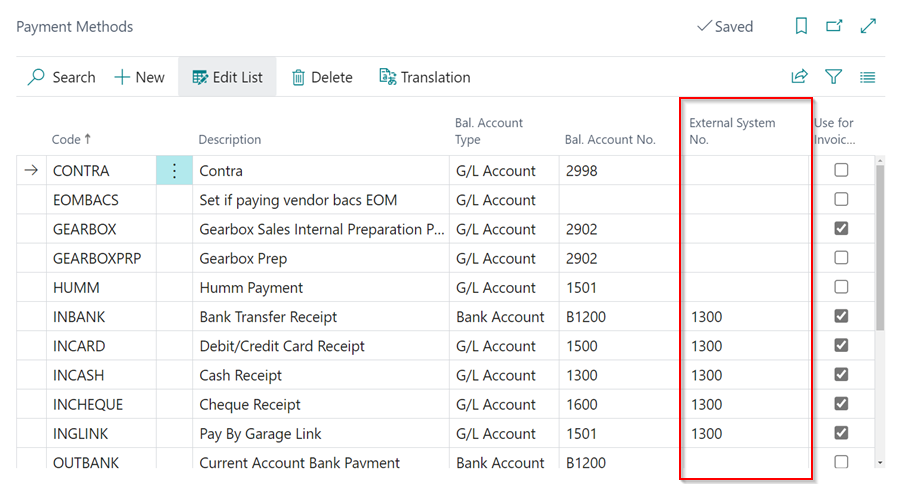
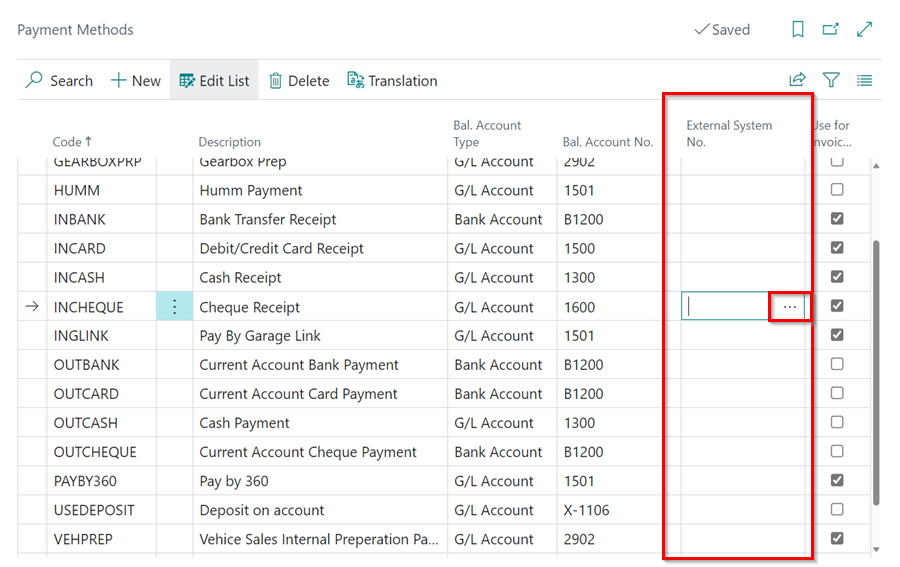
Add instructions for running the export

diff --git a/docs/garagehive-quickbooks-online-integration.md b/docs/garagehive-quickbooks-online-integration.md
@@ -12,6 +12,7 @@ Garage Hive has made it possible to integrate QuickBooks online accounting syste
 1. [Initial Setup](#initial-setup)
 2. [Integrate Chart of Accounts](#integrate-chart-of-accounts)
 3. [Integrate Payment Methods](#integrate-payment-methods)
+4. [How to run the export](#how-to-run-the-export)
 
 ### Initial Setup
 To integrate **QuickBooks Online** with Garage Hive, follow these steps.
@@ -59,6 +60,7 @@ To integrate the **Chart of Accounts** to **QuickBooks** accounting system:
 
    ![](media/garagehive-quickbooks-online-integration8.png)
 
+
 [Go back to top](#top)
 
 ### Integrate Payment Methods
@@ -67,18 +69,41 @@ To add the **External System No.** to the **Payments Methods**:
 
    ![](media/garagehive-quickbooks-online-integration9.png)
 
-2. In the **External System No.** column, enter the corresponding code for the **Payment Methods** that you use in your external system.
+2. In the **External System No.** column, click on the three dots to select the corresponding code for the **Payment Methods** that you use in your external system.
 
    ![](media/garagehive-quickbooks-online-integration10.png)
 
+
 [Go back to top](#top)
 
-<br>
+### How to run the export 
+1. In the top right corner, choose the ![](media/search_icon.png) icon, enter **Export to Accountancy System**, and select the related link.
+
+    ![](media/garagehive-sage-accounting-setup8.png)
+
+2. Select the following options:
+   * **Export Customer Invoices/Credit Memos** - This will export all Customer invoices/credit memos for the given date range. 
+   * **Export Customer Payments/Refunds** - This will export Invoice payments/refunds as well as payments to accounts within the specified date range.
+   * **Export Vendor Invoices/Credit Memos** - This will export all posted purchase orders/purchase invoices as well as posted purchase return orders/purchase credit memos within the given date range.
+   * **Export Type** - All or New. You may either export **All** of the documents within the date range or only the **New** documents. Selecting **New** will exclude any previously exported documents. This implies that it is **important** that you keep all prior exported files secure since they will never be reproduced. When using **New**, a transaction that has already been exported will be flagged and will not be exported again.
+   * **Date From** and **Date To** - Choose your date range.
+
+3. Under Catalogs:
+   * **Export All Customers** - This will generate an export of all customers in the system (**It is highly recommended that you never select this**).
+   * **Export All Vendors** - This will generate an export of all vendors in the system (**It is highly recommended that you never select this**).
+
+4. Click **OK**, to start exporting the data.
+
+   ![](media/garagehive-sage-accounting-setup9.png)
+
+
+[Go back to top](#top)
+
 
 ### **See Also**
 
 [How to Export to Your External Accountancy System](garagehive-finance-accountancy-export.html){:target="_blank"} \
-[How Import Exported Data to QuickBooks Online](garagehive-import-exported-data-to-quickbooks-online.html){:target="_blank"} \
+[How to Import the Exported Data to QuickBooks Online](garagehive-import-exported-data-to-quickbooks-online.html){:target="_blank"} \
 [Accountancy System Integrations](garagehive-external-accountancy-integration.html){:target="_blank"}
 
 

diff --git a/docs/garagehive-sage-50-accounts-integration.md b/docs/garagehive-sage-50-accounts-integration.md
@@ -64,7 +64,7 @@ To add the **External System No.** to the **Payments Methods**:
 
    ![](media/garagehive-sage-50-accounts-integration9.png)
 
-2. In the **External System No.** column, enter the corresponding code for the **Payment Methods** that you use in your external system.
+2. In the **External System No.** column, click on the three dots to select the corresponding code for the **Payment Methods** that you use in your external system.
 
    ![](media/garagehive-sage-50-accounts-integration10.png)
 

diff --git a/docs/xero-api-integration.md b/docs/xero-api-integration.md
@@ -104,7 +104,7 @@ To add the **External System No.** to the **Payments Methods**:
 
    ![](media/garagehive-xero-payment-methods1.png)
 
-2. In the **External System No.** column, enter the corresponding code for the **Payment Methods** that you use in your external system.
+2. In the **External System No.** column, click on the three dots to select the corresponding code for the **Payment Methods** that you use in your external system.
 
    ![](media/garagehive-xero-payment-methods2.png)
 
